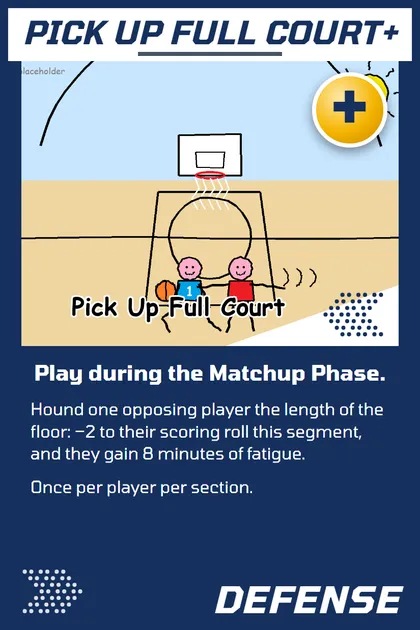
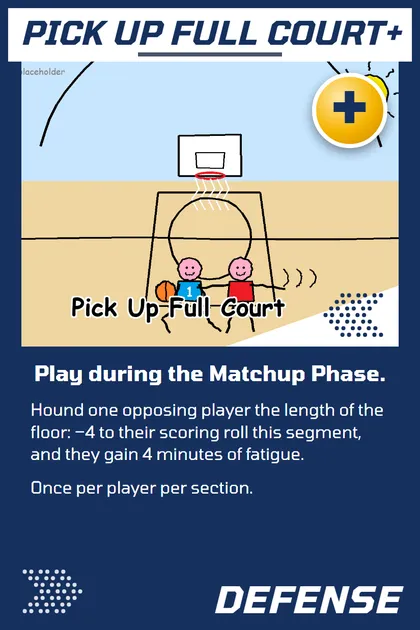
docs(climb): the '+' batch approved, with five changes
The user, 2026-10-19: Go Under's offence picks the shooter again and the
check is at −4; Spain Pick & Roll +4 keeping +1 Assist; Glass Cleaner +4
keeping +1 more; Pick Up Full Court −4 and 4 minutes; Cold Spell natural
1-5 and −1. The five faces re-exported.

diff --git a/src/game/strats.js b/src/game/strats.js
@@ -321,13 +321,13 @@ export const PLUS = {
   high_screen_roll: { desc: "Select two of your own players to swap their defenders, and gain 1 Assist. 🔒 Uncancelable." },
   switch_the_screen: { desc: "Swap the defenders on two opposing players, and the opponent loses 1 Assist. 🔒 Uncancelable." },
   veer_switch: { desc: "Cancel opponent's screen-and-roll card. You choose the new defender assignments instead, and draw a card." },
-  go_under: { desc: "Cancel opponent's screen-and-roll card. You choose which of the two players involved takes a 3PT Shot Check, at −2." },
+  go_under: { desc: "Cancel opponent's screen-and-roll card. The offence chooses which of the two players involved takes a 3PT Shot Check at −4." },
   overhelp: { desc: "Opponent plays a defensive switching card: one of your players gets +5 to their scoring roll this segment." },
   burned_switch: { desc: "Opponent forces a matchup switch: if the new defender has lower Speed OR Power than the original, you get +5 to your scoring roll." },
   catch_and_shoot: { desc: "Player with Speed 11+ attempts a 3PT Shot Check at +4. Success: +1 assist." },
   first_step: { desc: "Choose a player: +4 Speed. If their Speed advantage is already 5 or more: +6 Speed instead." },
   drive_the_lane: { desc: "Player with a Speed advantage attempts three free throw checks. Speed advantage ≥4: defender gains a cold marker." },
-  spain_pick_roll: { desc: "Choose a player faster than their defender: +4 to their scoring roll this period. If they score on that roll, +2 Assists." },
+  spain_pick_roll: { desc: "Choose a player faster than their defender: +4 to their scoring roll this period. If they score on that roll, +1 Assist." },
   ghost_screen: { desc: "Choose an offensive player with Speed 11+. They are treated as having no defender — roll penalty is negated to 0, their shot checks are uncontested, and their scoring roll gets +2." },
   close_out: { desc: "When opponent announces a 3PT Shot Check: −5 to that check. If they miss: cold marker on that player." },
   passing_lane: { desc: "Right after an opponent's scoring roll wins assists: cancel them, and you gain 1 Assist. −2 more from their track if your defender on them has more Speed." },
@@ -336,14 +336,14 @@ export const PLUS = {
   back_to_basket: { desc: "Player with Power 12+ and a Paint Bonus attempts a Paint Shot Check at +3." },
   offensive_board: { desc: "Spend 2 rebounds: take a second scoring roll with a different player." },
   putback_specialist: { desc: "After your player misses a shot check, spend 2 Rebounds: any player of yours announces a Paint Shot Check at +5. Hit: +1 Assist." },
-  glass_cleaner: { desc: "After an opponent misses any shot check: +3 Rebounds. +2 more if your defender on the shooter has more Power than them." },
+  glass_cleaner: { desc: "After an opponent misses any shot check: +4 Rebounds. +1 more if your defender on the shooter has more Power than them." },
   box_out: { desc: "Right after an opponent's scoring roll wins rebounds: cancel them, and you gain 1 Rebound. −2 more from their track if your defender on them has more Power." },
   drop_coverage: { desc: "Opponent announces a Paint Shot Check and your defender on them has a Defensive Bonus: −4 to the check." },
   smothering_defense: { desc: "Opponent announces any shot check and your defender on them has a Defensive Bonus: the check loses its card bonus entirely and is at −1." },
-  pick_up_full_court: { desc: "Hound one opposing player the length of the floor: −2 to their scoring roll this segment, and they gain 8 minutes of fatigue. Once per player per section." },
+  pick_up_full_court: { desc: "Hound one opposing player the length of the floor: −4 to their scoring roll this segment, and they gain 4 minutes of fatigue. Once per player per section." },
   rim_protector: { desc: "Opponent announces a Paint Shot Check and your defender on them has Power + Defensive Bonus of 13+: −5 to the check. Miss: +3 Rebounds for you." },
   help_defender: { desc: "An opponent yet to roll has a Speed or Power advantage of +3 or more: one of your other defenders rotates over. They get no positive matchup bonus this section." },
-  cold_spell: { desc: "Opponent rolls a natural 1, 2, 3 or 4 on their scoring roll: apply a cold marker + reduce their Rebound Track by 2." },
+  cold_spell: { desc: "Opponent rolls a natural 1 to 5 on their scoring roll: apply a cold marker + reduce their Rebound Track by 1." },
 };
 
 const PLUS_STRATS = new Map();

diff --git a/docs/plans/2026-10-18-the-climb-upgrades.md b/docs/plans/2026-10-18-the-climb-upgrades.md
@@ -1,4 +1,9 @@
-# The Climb: starter kits and their "+" versions (for approval)
+# The Climb: starter kits and their "+" versions
+
+**APPROVED 2026-10-19** with five changes (the user): Go Under's offence picks the
+shooter again and the check is at −4; Spain Pick & Roll +4 keeping its +1 Assist;
+Glass Cleaner +4 keeping +1 more; Pick Up Full Court −4 and 4 minutes; Cold Spell
+natural 1-5 and −1.
 
 2026-10-18. The Climb, piece 1, Task 1 (docs/plans/2026-10-18-the-climb.md).
 Nothing here ships until the user approves it (the strategy card approval
@@ -32,13 +37,13 @@ versions); the effects are built once the user approves them.
 | High Screen & Roll+ | Select two of your own players to swap their defenders. The opponent may react with Go Under, Fight Over, or Veer Switch. | Select two of your own players to swap their defenders, and gain 1 Assist. 🔒 Uncancelable. |
 | Switch the Screen+ | Swap the defenders on two opposing players. The offence may answer with Overhelp or Burned on the Switch. | Swap the defenders on two opposing players, and the opponent loses 1 Assist. 🔒 Uncancelable. |
 | Veer Switch+ | Cancel opponent's screen-and-roll card. You choose the new defender assignments instead. | Cancel opponent's screen-and-roll card. You choose the new defender assignments instead, and draw a card. |
-| Go Under+ | Cancel opponent's screen-and-roll card. The offence chooses which of the two players involved takes a 3PT Shot Check at +2. | Cancel opponent's screen-and-roll card. You choose which of the two players involved takes a 3PT Shot Check, at −2. |
+| Go Under+ | Cancel opponent's screen-and-roll card. The offence chooses which of the two players involved takes a 3PT Shot Check at +2. | Cancel opponent's screen-and-roll card. The offence chooses which of the two players involved takes a 3PT Shot Check at −4. |
 | Overhelp+ | Opponent plays a defensive switching card: one of your players gets +3 to their scoring roll this segment. | Opponent plays a defensive switching card: one of your players gets +5 to their scoring roll this segment. |
 | Burned on the Switch+ | Opponent forces a matchup switch: if the new defender has lower Speed OR Power than the original, you get +3 to your scoring roll. | Opponent forces a matchup switch: if the new defender has lower Speed OR Power than the original, you get +5 to your scoring roll. |
 | Catch & Shoot+ | Player with Speed 12+ attempts a 3PT Shot Check at +2. Success: +1 assist. | Player with Speed 11+ attempts a 3PT Shot Check at +4. Success: +1 assist. |
 | First Step+ | Choose a player: +2 Speed. If their Speed advantage is already 5 or more: +3 Speed instead. | Choose a player: +4 Speed. If their Speed advantage is already 5 or more: +6 Speed instead. |
 | Drive the Lane+ | Player with a Speed advantage attempts two free throw checks. Speed advantage ≥5: defender gains a cold marker. | Player with a Speed advantage attempts three free throw checks. Speed advantage ≥4: defender gains a cold marker. |
-| Spain Pick & Roll+ | Choose a player faster than their defender: +2 to their scoring roll this period. If they score on that roll, +1 Assist. | Choose a player faster than their defender: +4 to their scoring roll this period. If they score on that roll, +2 Assists. |
+| Spain Pick & Roll+ | Choose a player faster than their defender: +2 to their scoring roll this period. If they score on that roll, +1 Assist. | Choose a player faster than their defender: +4 to their scoring roll this period. If they score on that roll, +1 Assist. |
 | Ghost Screen+ | Choose an offensive player with Speed 12+. They are treated as having no defender — roll penalty is negated to 0, and their shot checks are uncontested. | Choose an offensive player with Speed 11+. They are treated as having no defender — roll penalty is negated to 0, their shot checks are uncontested, and their scoring roll gets +2. |
 | Close Out+ | When opponent announces a 3PT Shot Check: −3 to that check. If they miss: cold marker on that player. | When opponent announces a 3PT Shot Check: −5 to that check. If they miss: cold marker on that player. |
 | Passing Lane+ | Right after an opponent's scoring roll wins assists: cancel them. −1 more from their track if your defender on them has more Speed. | Right after an opponent's scoring roll wins assists: cancel them, and you gain 1 Assist. −2 more from their track if your defender on them has more Speed. |
@@ -47,14 +52,14 @@ versions); the effects are built once the user approves them.
 | Back to the Basket+ | Player with Power 13+ and a Paint Bonus attempts a Paint Shot Check. | Player with Power 12+ and a Paint Bonus attempts a Paint Shot Check at +3. |
 | Offensive Board Mastery+ | Spend 3 rebounds: take a second scoring roll with a different player at −2. | Spend 2 rebounds: take a second scoring roll with a different player. |
 | Putback Specialist+ | After your player misses a shot check, spend 2 Rebounds: any player of yours announces a Paint Shot Check at +3. | After your player misses a shot check, spend 2 Rebounds: any player of yours announces a Paint Shot Check at +5. Hit: +1 Assist. |
-| Glass Cleaner+ | After an opponent misses any shot check: +2 Rebounds. +1 more if your defender on the shooter has more Power than them. | After an opponent misses any shot check: +3 Rebounds. +2 more if your defender on the shooter has more Power than them. |
+| Glass Cleaner+ | After an opponent misses any shot check: +2 Rebounds. +1 more if your defender on the shooter has more Power than them. | After an opponent misses any shot check: +4 Rebounds. +1 more if your defender on the shooter has more Power than them. |
 | Box Out+ | Right after an opponent's scoring roll wins rebounds: cancel them. −1 more from their track if your defender on them has more Power. | Right after an opponent's scoring roll wins rebounds: cancel them, and you gain 1 Rebound. −2 more from their track if your defender on them has more Power. |
 | Drop Coverage+ | Opponent announces a Paint Shot Check and your defender on them has a Defensive Bonus: −2 to the check. | Opponent announces a Paint Shot Check and your defender on them has a Defensive Bonus: −4 to the check. |
 | Smothering Defense+ | Opponent announces any shot check and your defender on them has a Defensive Bonus: the check's card bonus is reduced by 3, to a minimum of 0. | Opponent announces any shot check and your defender on them has a Defensive Bonus: the check loses its card bonus entirely and is at −1. |
-| Pick Up Full Court+ | Hound one opposing player the length of the floor: −1 to their scoring roll this segment, and they gain 4 minutes of fatigue. Once per player per section. | Hound one opposing player the length of the floor: −2 to their scoring roll this segment, and they gain 8 minutes of fatigue. Once per player per section. |
+| Pick Up Full Court+ | Hound one opposing player the length of the floor: −1 to their scoring roll this segment, and they gain 4 minutes of fatigue. Once per player per section. | Hound one opposing player the length of the floor: −4 to their scoring roll this segment, and they gain 4 minutes of fatigue. Once per player per section. |
 | Rim Protector+ | Opponent announces a Paint Shot Check and your defender on them has Power + Defensive Bonus of 15+: −4 to the check. Miss: +2 Rebounds for you. | Opponent announces a Paint Shot Check and your defender on them has Power + Defensive Bonus of 13+: −5 to the check. Miss: +3 Rebounds for you. |
 | Help Defender+ | An opponent yet to roll has a Speed or Power advantage of +4 or more: one of your other defenders rotates over. They get no positive matchup bonus this section — and the player your helper left gets +3 on their next roll. | An opponent yet to roll has a Speed or Power advantage of +3 or more: one of your other defenders rotates over. They get no positive matchup bonus this section. |
-| Cold Spell+ | Opponent rolls a natural 1 or 2 on their scoring roll: apply a cold marker + reduce their Rebound Track by 1. | Opponent rolls a natural 1, 2, 3 or 4 on their scoring roll: apply a cold marker + reduce their Rebound Track by 2. |
+| Cold Spell+ | Opponent rolls a natural 1 or 2 on their scoring roll: apply a cold marker + reduce their Rebound Track by 1. | Opponent rolls a natural 1 to 5 on their scoring roll: apply a cold marker + reduce their Rebound Track by 1. |
 
 ## What "leans to your playbook" means
 
